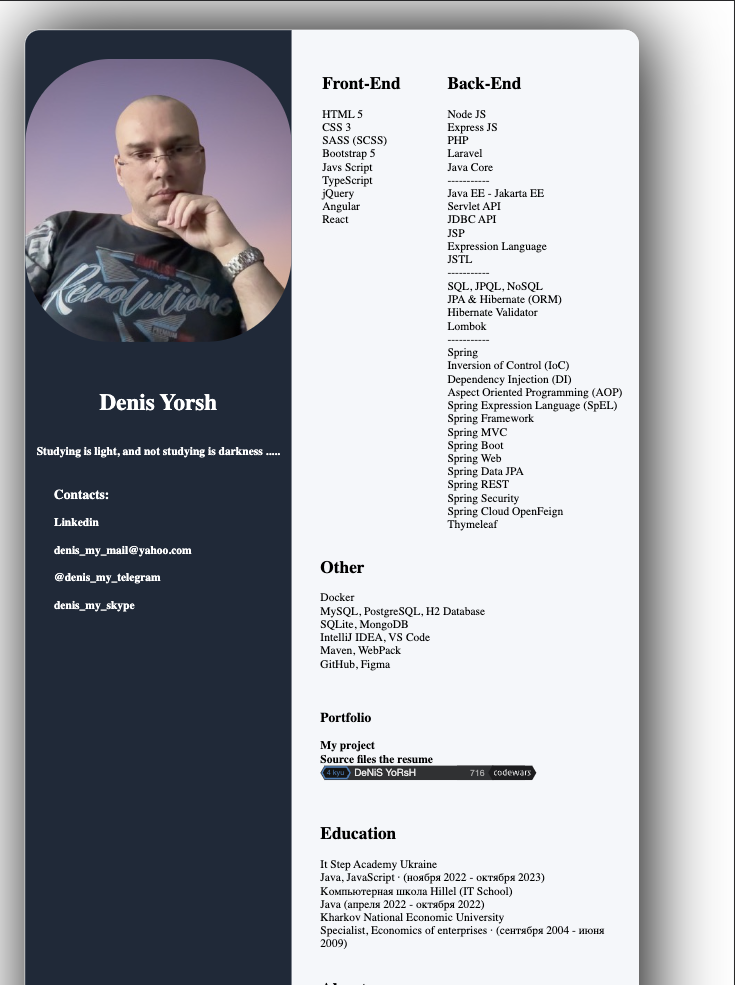
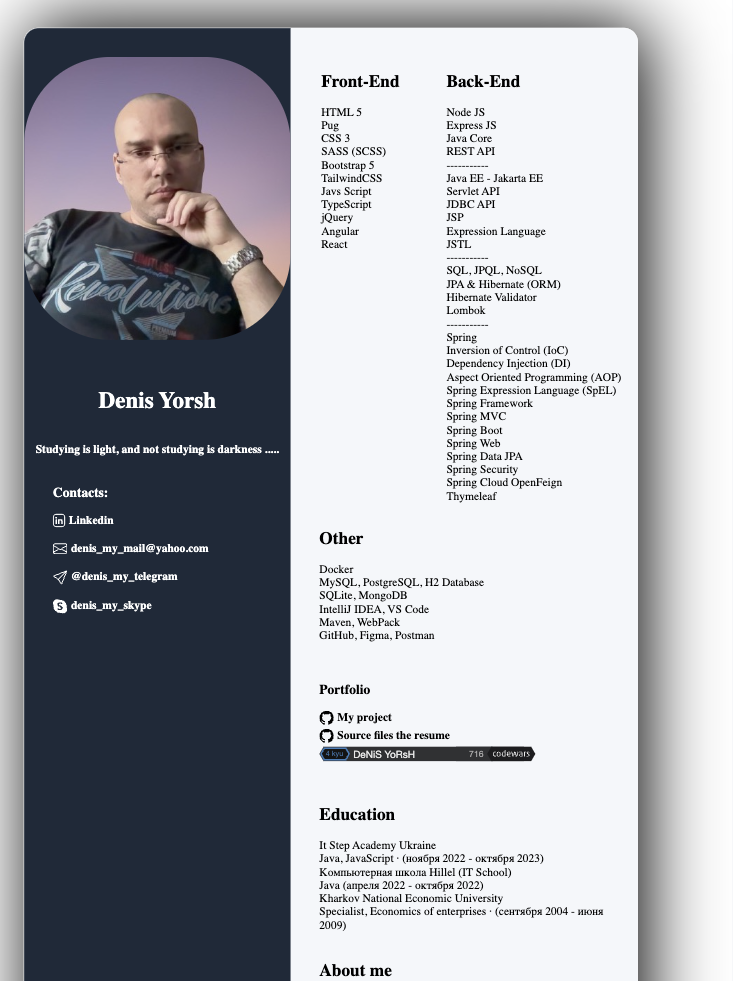
resume is ready 42%

diff --git a/index.html b/index.html
@@ -8,10 +8,7 @@
     <title>Resume</title>
   </head>
   <body class="body-conteiner">
-    <main
-      class="body-conteiner__main-container"
-      id="main"
-    >
+    <main class="body-conteiner__main-container" id="main">
       <!-- Contacts section -->
       <section class="contact-section">
         <img
@@ -75,9 +72,11 @@
             <h2>Front-End</h2>
             <ul>
               <li>HTML 5</li>
+              <li>Pug</li>
               <li>CSS 3</li>
               <li>SASS (SCSS)</li>
               <li>Bootstrap 5</li>
+              <li>TailwindCSS</li>
               <li>Javs Script</li>
               <li>TypeScript</li>
               <li>jQuery</li>
@@ -89,10 +88,11 @@
           <section>
             <h2>Back-End</h2>
             <ul>
+              <!-- <li>PHP</li>
+              <li>WordPress</li>
+              <li>Laravel</li> -->
               <li>Node JS</li>
               <li>Express JS</li>
-              <li>PHP</li>
-              <li>Laravel</li>
               <li>Java Core</li>
               <li>REST API</li>
               <li>-----------</li>
